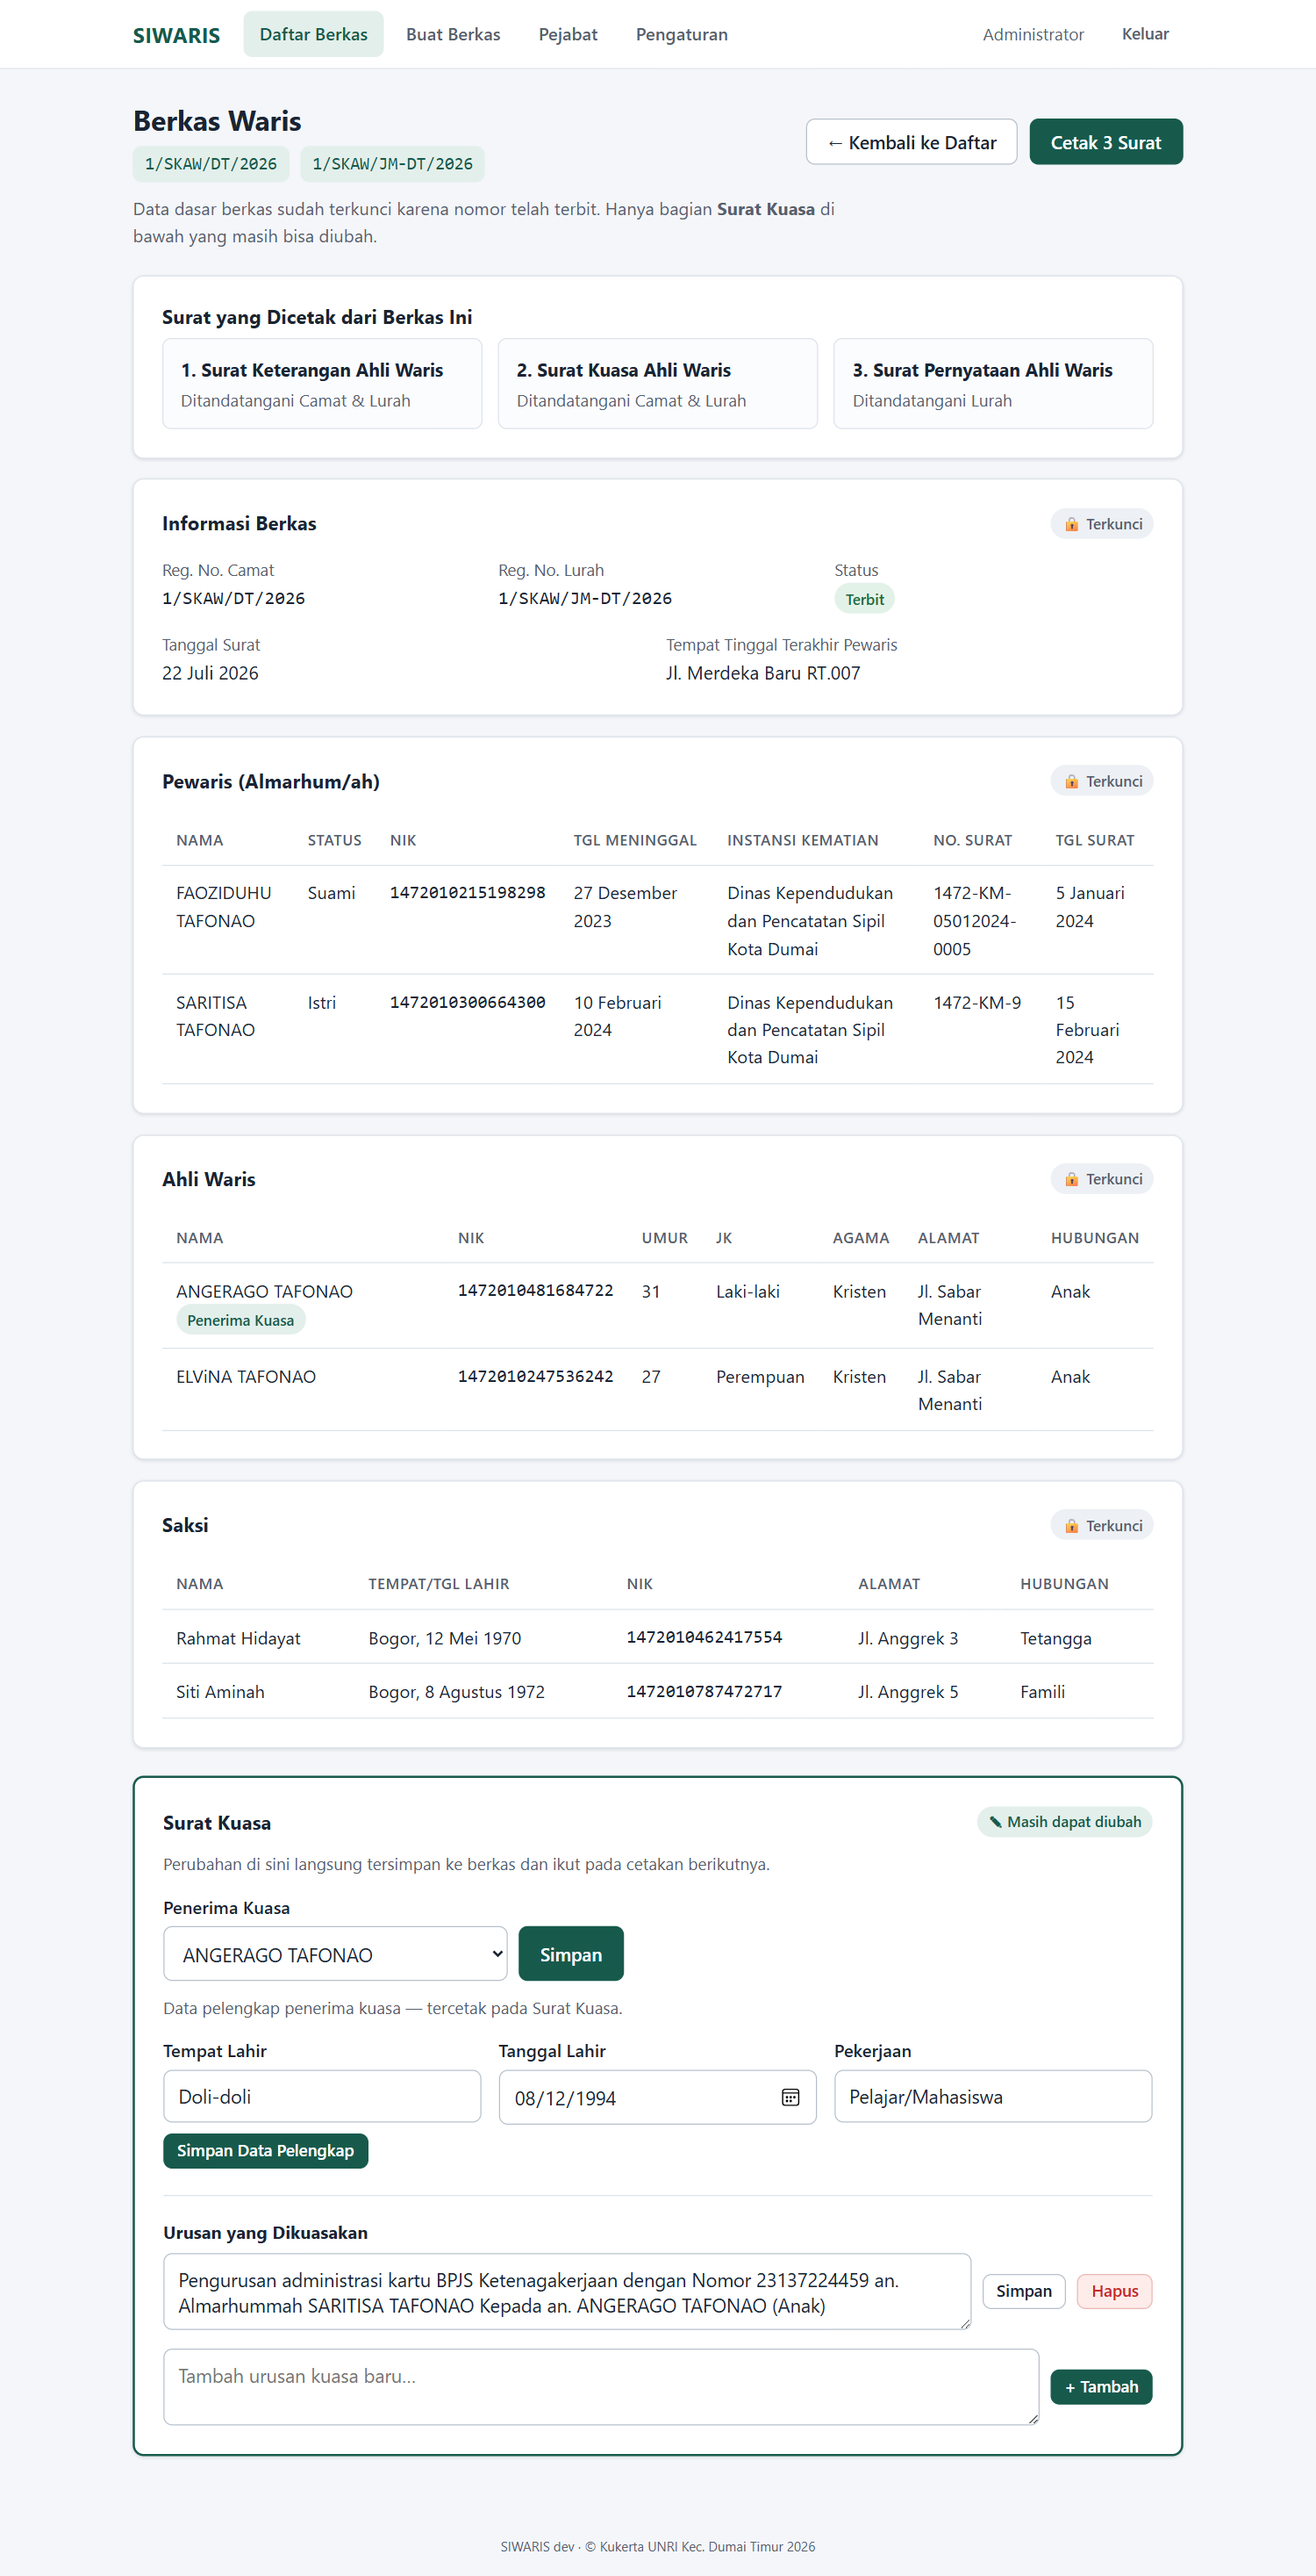
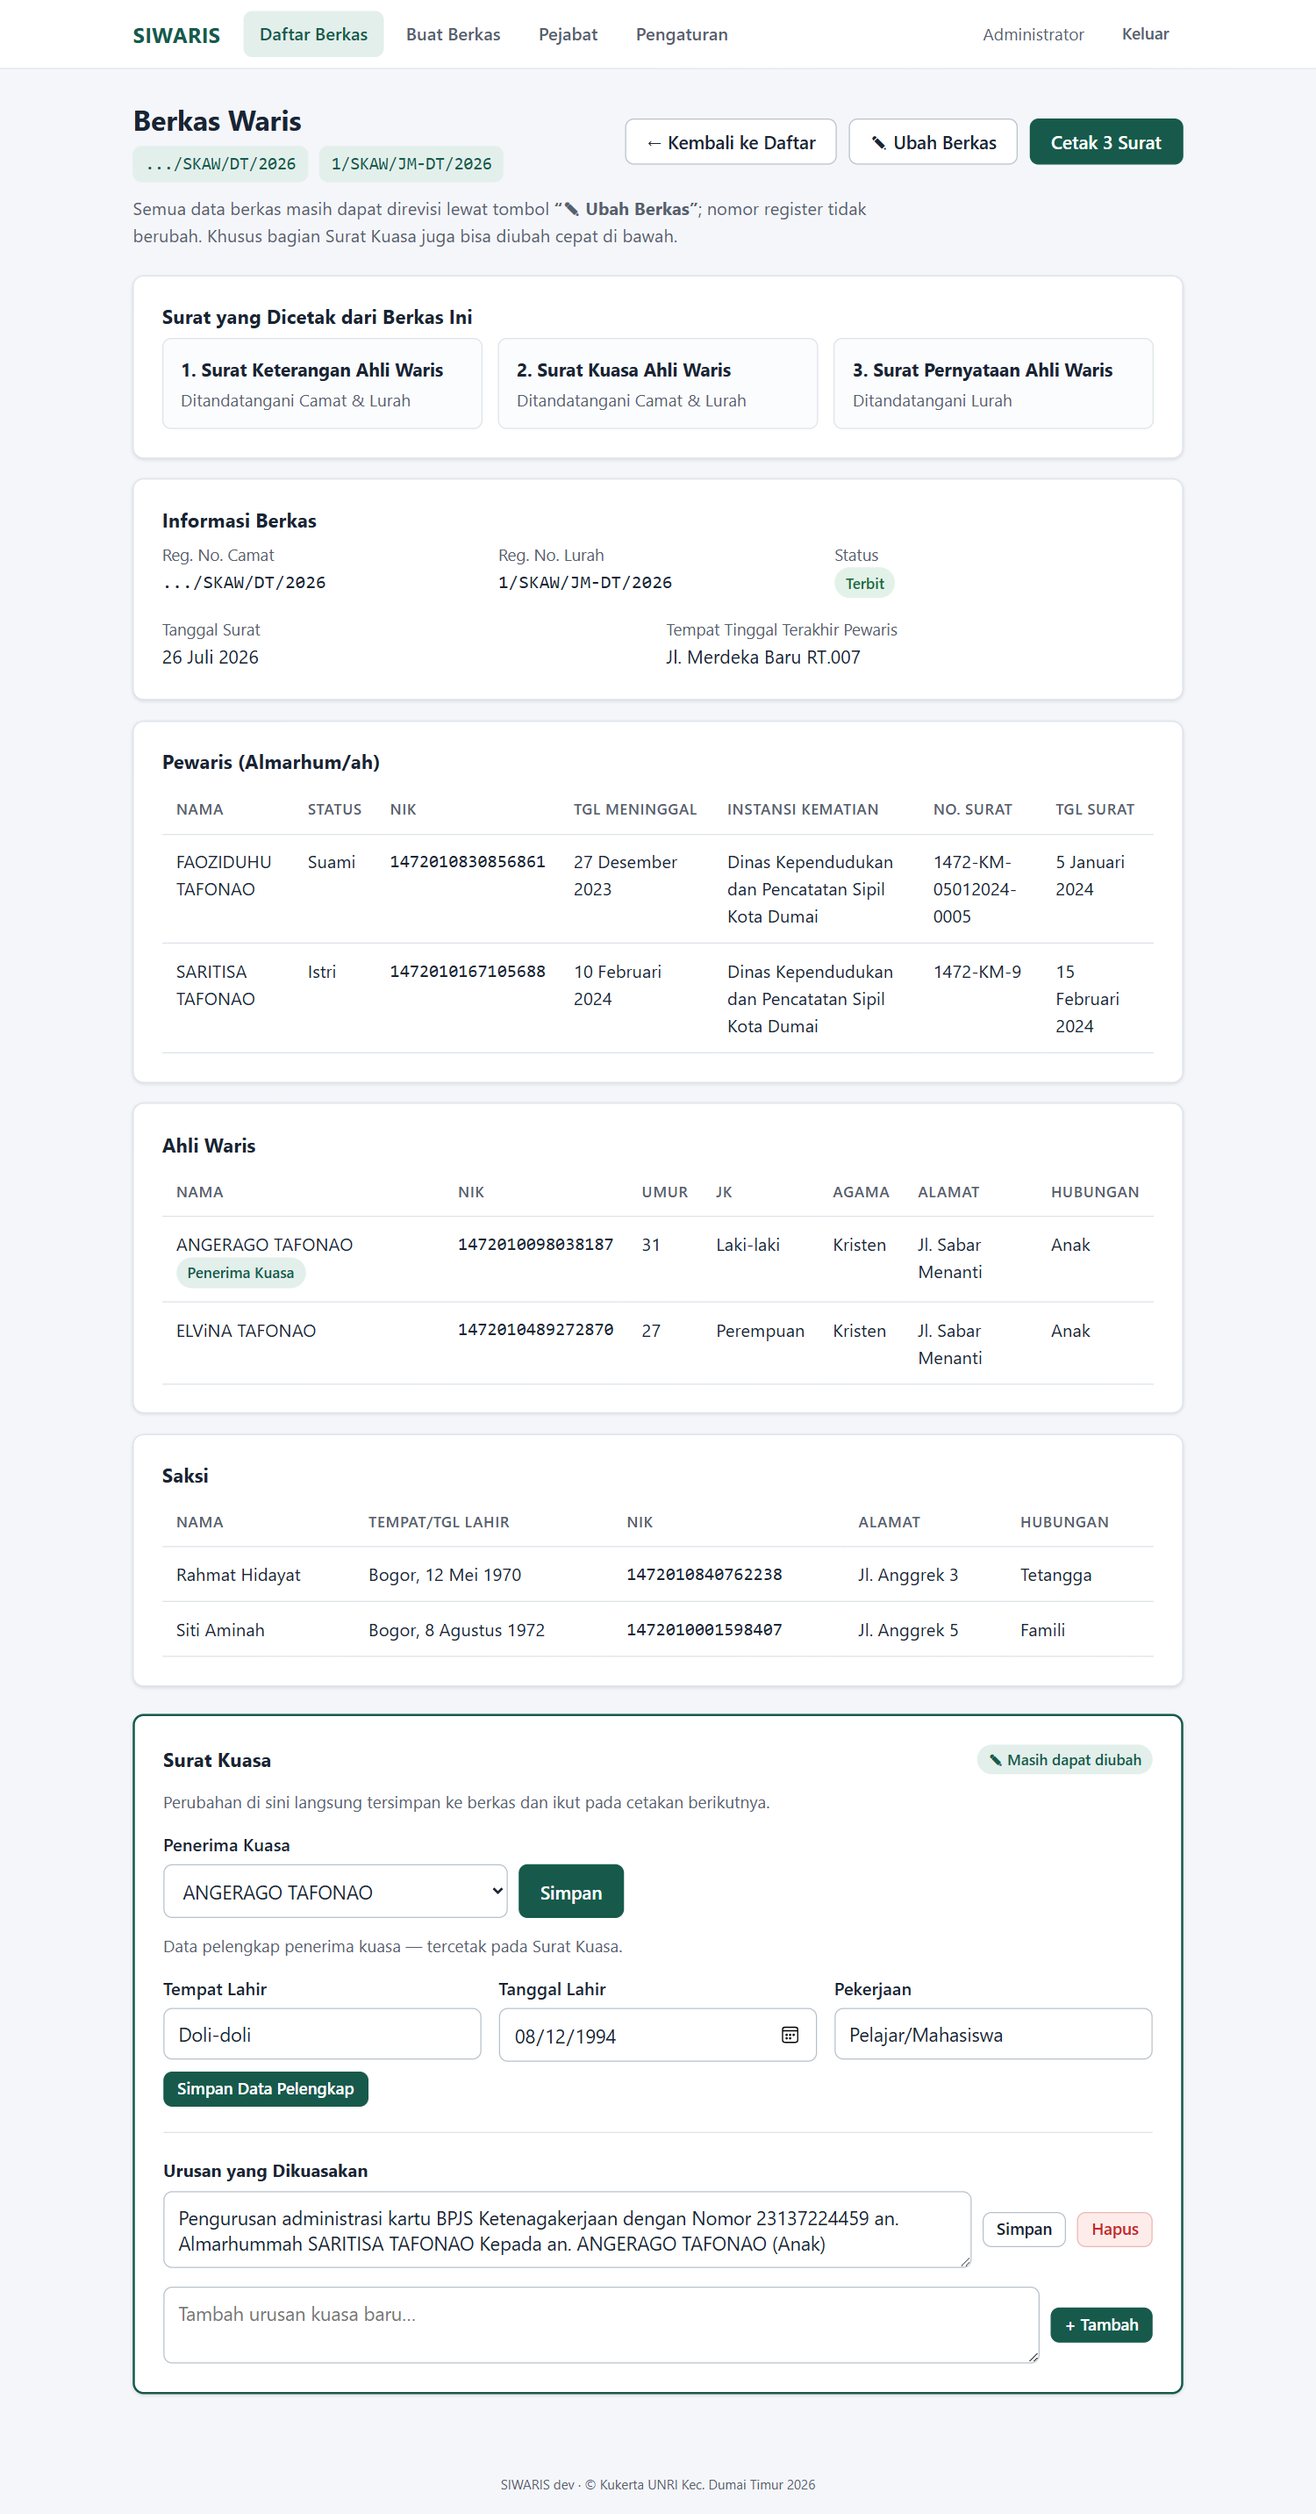
Docs: perbarui panduan sesuai fitur revisi berkas & nomor camat manual
- Bagian 5 jadi "Melihat Detail & Merevisi Berkas": tombol Ubah Berkas,
  screenshot baru 17-ubah-berkas.png, edit cepat Surat Kuasa tetap dijelaskan.
- Langkah 6: peringatan "data terkunci" diganti — semua data bisa direvisi,
  nomor register tidak berubah.
- Pengaturan & Mencetak: jelaskan reg Camat ".../SKAW/DT/2026" + tanggal
  titik-titik (diisi tangan kecamatan), tanggal reg Kelurahan otomatis,
  dan baris footer "dicetak melalui SIWARIS" di tiap surat.
- FAQ salah ketik diarahkan ke tombol Ubah Berkas.
- Semua screenshot di-regenerate via docs/shots.js pada DB baru.

diff --git a/docs/shots.js b/docs/shots.js
@@ -102,6 +102,12 @@ const sleep = (ms) => new Promise((r) => setTimeout(r, ms))
   await sleep(4300)
   await shot('14-detail', { fullPage: true })
 
+  // 8b. Halaman ubah berkas (wizard sama, terisi data lama)
+  await page.click('a:has-text("Ubah Berkas")')
+  await page.waitForSelector('h1:has-text("Ubah Berkas Waris")')
+  await sleep(400)
+  await shot('17-ubah-berkas')
+
   // 9. Halaman cetak
   await page.goto(BASE + '/berkas/1/cetak')
   await page.waitForSelector('.judul')

diff --git a/docs/panduan-penggunaan.md b/docs/panduan-penggunaan.md
@@ -16,7 +16,7 @@ Surat Pernyataan Ahli Waris) dalam 3 halaman A4.
 2. [Login Pertama Kali](#2-login-pertama-kali)
 3. [Persiapan Awal (Wajib, Sekali Saja)](#3-persiapan-awal-wajib-sekali-saja)
 4. [Membuat Berkas Waris](#4-membuat-berkas-waris)
-5. [Melihat Detail & Mengubah Surat Kuasa](#5-melihat-detail--mengubah-surat-kuasa)
+5. [Melihat Detail & Merevisi Berkas](#5-melihat-detail--merevisi-berkas)
 6. [Mencetak / Menyimpan PDF](#6-mencetak--menyimpan-pdf)
 7. [Mencari Berkas](#7-mencari-berkas)
 8. [Melanjutkan Nomor dari Pembukuan Manual](#8-melanjutkan-nomor-dari-pembukuan-manual)
@@ -85,8 +85,11 @@ Buka menu **Pengaturan**, isi identitas kelurahan (contoh):
 | Kode Kelurahan | `JM` |
 | Instansi Penerbit Surat Kematian | *(sudah terisi otomatis:* `Dinas Kependudukan dan Pencatatan Sipil Kota Dumai`*)* |
 
-Kode dipakai untuk nomor registrasi, contohnya `12/SKAW/DT/2026` (Camat) dan
-`12/SKAW/JM-DT/2026` (Lurah). Klik **Simpan Pengaturan**.
+Kode dipakai untuk nomor registrasi Kelurahan, contohnya `12/SKAW/JM-DT/2026`,
+dengan tanggal register otomatis mengikuti tanggal surat. Nomor register Camat
+tercetak `.../SKAW/DT/2026` dengan tanggal titik-titik — nomor urut dan
+tanggalnya sengaja dikosongkan untuk **diisi tulis tangan oleh pihak
+kecamatan**. Klik **Simpan Pengaturan**.
 
 ![Halaman pengaturan](img/07-pengaturan.png)
 
@@ -137,8 +140,7 @@ Pilih **satu ahli waris sebagai penerima kuasa**; ahli waris lainnya otomatis
 menjadi pemberi kuasa. Lengkapi data pelengkap penerima kuasa (tempat/tanggal
 lahir, pekerjaan) — ini tercetak di Surat Kuasa. Lalu tuliskan
 **urusan yang dikuasakan** apa adanya, persis seperti akan tercetak
-(contoh: pengurusan BPJS, tabungan bank, balik nama, dll). Bagian ini masih
-bisa diubah kapan saja setelah berkas disimpan.
+(contoh: pengurusan BPJS, tabungan bank, balik nama, dll).
 
 ![Langkah 5](img/12-langkah5-surat-kuasa.png)
 
@@ -147,22 +149,30 @@ bisa diubah kapan saja setelah berkas disimpan.
 Semua isian dirangkum. Periksa baik-baik; klik **Ubah** untuk kembali ke
 langkah terkait.
 
-> **Penting:** setelah klik **Simpan Berkas**, nomor registrasi Camat & Lurah
-> langsung terbit dan data **terkunci** (tidak bisa diedit) — kecuali bagian
-> Surat Kuasa. Kalau ada salah ketik, perbaiki **sebelum** menyimpan.
+Setelah klik **Simpan Berkas**, nomor registrasi Kelurahan langsung terbit.
+Tidak perlu khawatir salah ketik — **semua data masih bisa direvisi** kapan
+saja lewat tombol **✎ Ubah Berkas** di halaman detail (nomor register tidak
+berubah).
 
 ![Langkah 6](img/13-langkah6-periksa.png)
 
-## 5. Melihat Detail & Mengubah Surat Kuasa
+## 5. Melihat Detail & Merevisi Berkas
 
 Setelah tersimpan, halaman detail menampilkan kedua nomor registrasi, daftar
-3 surat yang dihasilkan, dan seluruh data berkas. Kartu bertanda 🔒 **Terkunci**
-tidak bisa diubah; kartu **Surat Kuasa** (berbingkai hijau, bertanda
-"Masih dapat diubah") tetap bisa: ganti penerima kuasa, data pelengkapnya,
-serta tambah/ubah/hapus urusan kuasa. Perubahan langsung ikut pada cetakan
-berikutnya.
+3 surat yang dihasilkan, dan seluruh data berkas.
 
 ![Detail berkas](img/14-detail.png)
+
+**Semua data berkas dapat direvisi.** Klik **✎ Ubah Berkas** — formulir
+6 langkah yang sama terbuka dengan seluruh isian lama, silakan perbaiki lalu
+klik **Simpan Revisi** di langkah terakhir. Nomor register tidak berubah, dan
+cetakan berikutnya otomatis memakai data baru.
+
+![Halaman ubah berkas](img/17-ubah-berkas.png)
+
+Khusus bagian **Surat Kuasa** (kartu berbingkai hijau di bawah halaman detail)
+juga bisa diubah cepat tanpa membuka formulir: ganti penerima kuasa, data
+pelengkapnya, serta tambah/ubah/hapus urusan kuasa.
 
 ## 6. Mencetak / Menyimpan PDF
 
@@ -177,6 +187,12 @@ dan blok tanda tangan.
 - Untuk menyimpan sebagai file, pilih printer **"Save as PDF"** di dialog cetak.
 - Pada dialog cetak, pastikan skala **100%** (bukan "Fit to page") dan ukuran
   kertas A4.
+
+Pada blok tanda tangan, kolom **Camat** tercetak dengan nomor register dan
+tanggal titik-titik (`.../SKAW/DT/2026`) untuk diisi tulis tangan oleh pihak
+kecamatan; kolom **Lurah** sudah lengkap dengan nomor dan tanggal otomatis.
+Di akhir tiap surat ada baris kecil penanda bahwa dokumen dicetak melalui
+aplikasi SIWARIS, beserta nomor register dan tanggal cetaknya.
 
 ## 7. Mencari Berkas
 
@@ -209,9 +225,9 @@ Setiap NIK pewaris hanya boleh satu berkas (pengaman surat ganda). Cari berkas
 lamanya lewat pencarian NIK, lalu pakai/cetak ulang berkas tersebut.
 
 **Data salah ketik tapi berkas sudah tersimpan, bagaimana?**
-Data dasar terkunci setelah nomor terbit. Yang masih bisa diubah hanya bagian
-Surat Kuasa. Untuk kesalahan pada data dasar, buat kebijakan koreksi sesuai
-prosedur kantor (berkas lama tetap tercatat di aplikasi).
+Buka berkasnya lalu klik **✎ Ubah Berkas** — semua data bisa diperbaiki dan
+disimpan ulang; nomor register tidak berubah
+(lihat [bagian 5](#5-melihat-detail--merevisi-berkas)).
 
 **Hasil cetak lebih dari 3 halaman?**
 Pastikan ukuran kertas di dialog cetak = A4 dan skala 100%. Berkas dengan
